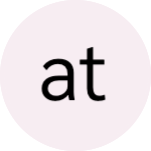
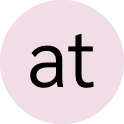
slight changes

Changed region(s): [[0.2419, 0.2661, 0.7742, 0.7258]]

diff --git a/index.html b/index.html
@@ -5,7 +5,7 @@
   <meta name="viewport" content= "width=device-width, user-scalable=no">
   <meta name="viewport" content="width=device-width, initial-scale=1" />
   <link rel="stylesheet" href="https://www.w3schools.com/w3css/4/w3.css">
-  <link href="https://fonts.googleapis.com/css?family=Sarabun:300,400&display=swap" rel="stylesheet">
+  <link href="https://fonts.googleapis.com/css?family=Sarabun:300,400,500&display=swap" rel="stylesheet">
   <link rel="stylesheet" href="css/style.css">
   <link rel="stylesheet" href="css/card.css">
   <link rel="stylesheet" href="css/navbar.css">
@@ -27,7 +27,6 @@
       <h1 class="header" id="header1">Hey, <br> Anita here 👋</h1>
       <p class="paragraph" id="left-paragraph">DevOps Engineer and CS student at UBC. Lover of all things logistical and artistical ✨</p>
 
-
       <div class="icon-row">
         <a href="https://www.linkedin.com/in/anita-tse/">
           <img src="images/linkedin.png" width=43px class="icon">
@@ -42,7 +41,7 @@
           <img src="images/github.svg" width=42px class="icon">
         </a>
       </div>
-      <div class="space"></div>
+      <!-- <div class="space"></div> -->
   </div>
 
   <!-- RIGHT PANEL -->
@@ -55,10 +54,11 @@
       <div class="nav"><a class="active" href="index.html">Home</a></div>
     </div>
 
+    <div class="space"></div>
 
     <!-- Description at the top of right panel -->
     <p class="paragraph">
-      <br><br>I am a Computer Science student at the University of British Columbia, having dipped my toes in both Software Developer and DevOps Engineer internships.
+      I am a Computer Science student at the University of British Columbia, having dipped my toes in both Software Developer and DevOps Engineer internships.
     <br><br>
       Currently the Co-president of nwPlus UBC — the team behind Western Canada’s largest hackathon, nwHacks, North America’s largest Local Hack Day 2018, and Vancouver BC’s first all-female* 24-hour hackathon, cmd-f.
       I love fostering positive team relationships, leaping out of my comfort zone, and proving that tech can be for everyone.

diff --git a/css/style.css b/css/style.css
@@ -64,12 +64,9 @@ iframe {
 
 #left-panel {
   position: fixed;
-  /* top: 0;
-  left: 0; */
   width: 30%;
   height: 100vh;
   overflow-y: scroll;
-  background-color: #fff7fc;
   border-right: 4px solid #f0dde5;
 }
 

diff --git a/css/icon.css b/css/icon.css
@@ -10,8 +10,7 @@
 img.icon {
   display: block;
   float: left;
-  padding-left: 10px;
-  padding-right: 10px;
+  padding: 10px;
 }
 
 img.icon:hover {

diff --git a/css/navbar.css b/css/navbar.css
@@ -20,7 +20,8 @@
 }
 
 .nav .active {
-  text-decoration: underline;
+  /* text-decoration: underline; */
+  font-weight: 500;
 }
 
 .nav a {
